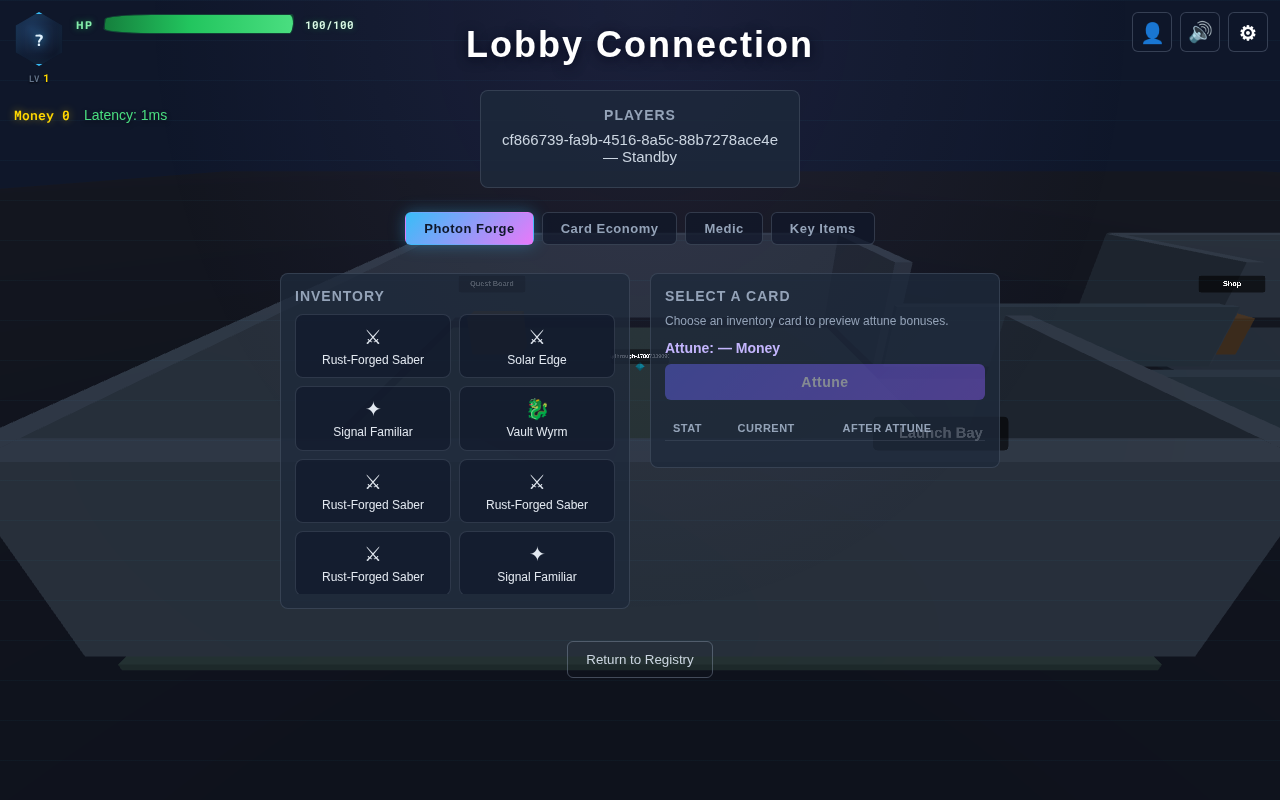
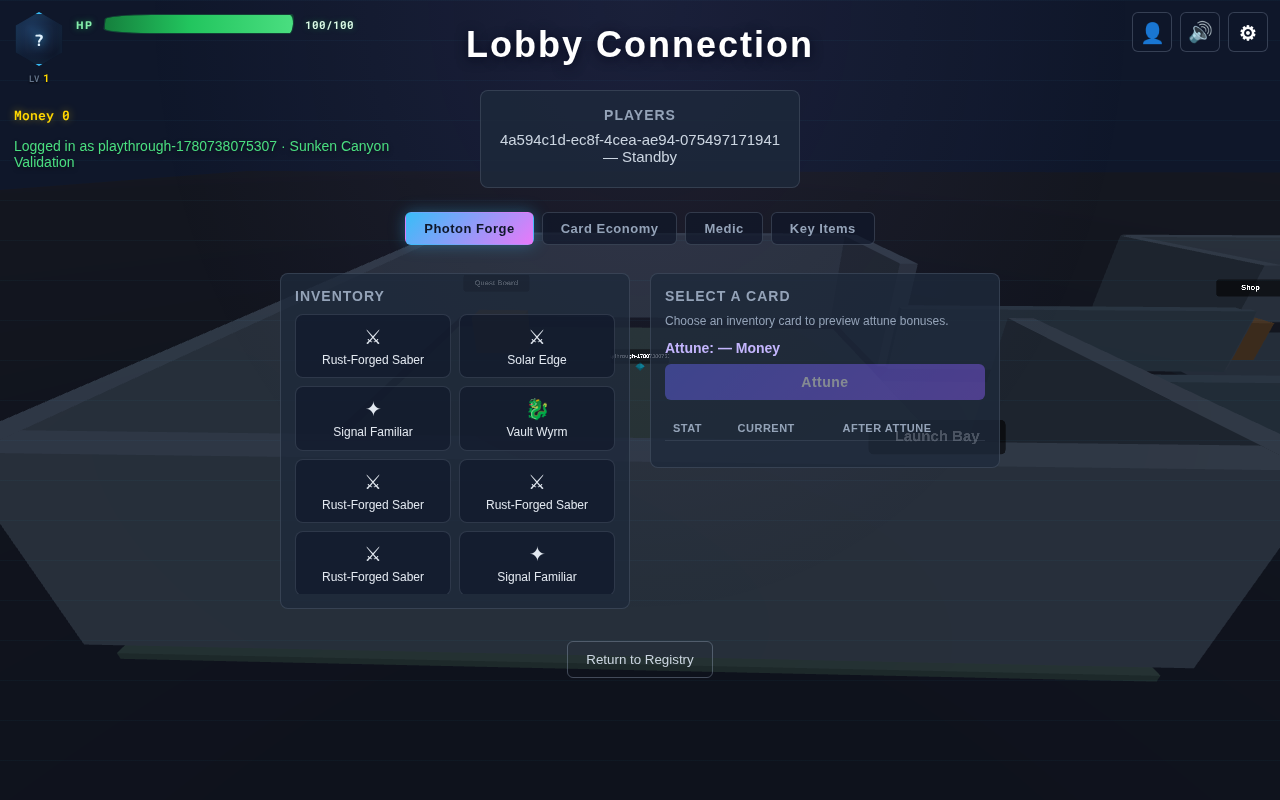
279-playthrough-validate-sunken-canyon/04-execute-sunken-canyon-validation: execute full sunken-canyon playthrough and land artifacts
Runs the end-to-end sunken-canyon validation (auth → hub/deploy → god-mode
boss encounter → victory), landing all 7 screenshots, run-summary.json with
passing assertions (bossSpawned, encounterActivated, bossDefeated, victoryFired),
probes.json with dormant/active encounter and floor-alignment probes, and
findings.md documenting the run.

autogame

diff --git a/game/server/debugScenarios.js b/game/server/debugScenarios.js
@@ -662,32 +662,26 @@ function applyDebugScenario(socket, name) {
         remainingCharges: 5,
         grind: 0,
       };
-      const addsByBand = new Map();
-      for (const add of adds) {
-        const band = bandAt(state.layout, add.x, add.z) || 'plateau';
-        if (!addsByBand.has(band)) addsByBand.set(band, []);
-        addsByBand.get(band).push(add);
-      }
+      // Cluster every live add on the start plateau (wounded, shields stripped) so the
+      // harness can clear the pack through lock-on + swings without crossing bands or
+      // the canyon_monolith boss trigger. Each add still gets band-correct floor Y via
+      // sampleFloorY at its cluster position.
+      const clusterAnchor = firstRoomPosition();
       const clusterRadius = 4;
-      for (const [band, bandAdds] of addsByBand) {
-        const anchor = clusterAnchorForBand(state.layout, band, player);
-        let angle = 0;
-        const step = bandAdds.length > 0 ? (Math.PI * 2) / bandAdds.length : 0;
-        for (const add of bandAdds) {
-          add.hp = 1;
-          add.shieldHp = 0;
-          add.maxShieldHp = 0;
-          add.x = anchor.x + Math.cos(angle) * clusterRadius;
-          add.z = anchor.z + Math.sin(angle) * clusterRadius;
-          add.y = resolveFloorY(sampleFloorY(state.layout, add.x, add.z));
-          add.wanderTarget = { x: add.x, z: add.z };
-          angle += step;
-        }
+      let angle = 0;
+      const step = adds.length > 0 ? (Math.PI * 2) / adds.length : 0;
+      for (const add of adds) {
+        add.hp = 1;
+        add.shieldHp = 0;
+        add.maxShieldHp = 0;
+        add.x = clusterAnchor.x + Math.cos(angle) * clusterRadius;
+        add.z = clusterAnchor.z + Math.sin(angle) * clusterRadius;
+        add.y = resolveFloorY(sampleFloorY(state.layout, add.x, add.z));
+        add.wanderTarget = { x: add.x, z: add.z };
+        angle += step;
       }
-      const playerBand = bandAt(state.layout, player.x, player.z) || 'plateau';
-      const playerAnchor = clusterAnchorForBand(state.layout, playerBand, player);
-      player.x = playerAnchor.x;
-      player.z = playerAnchor.z;
+      player.x = clusterAnchor.x;
+      player.z = clusterAnchor.z;
       player.y = resolveFloorY(sampleFloorY(state.layout, player.x, player.z));
       repositionNearEnemy(player, nearest);
       player.y = resolveFloorY(sampleFloorY(state.layout, player.x, player.z));
@@ -755,8 +749,13 @@ function applyDebugScenario(socket, name) {
       boss.maxHp = boss.maxHp || boss.hp;
       boss.shieldHp = 0;
       boss.maxShieldHp = 0;
-      activateEncounter(state.run);
-      lockEncounter(state.run);
+      // Harness activates the encounter before boss-low-hp; direct URL/debug use may still be dormant.
+      if (isEncounterDormant(state.run)) {
+        activateEncounter(state.run);
+      }
+      if (!state.run.encounter.locked) {
+        lockEncounter(state.run);
+      }
       broadcastLobbyUpdate(lobby);
       io.to(lobby.id).emit(SERVER_TO_CLIENT.STATE_UPDATE, stateSnapshot());
       return { ok: true, scenario: name };

diff --git a/game/validation/sunken-canyon/findings.md b/game/validation/sunken-canyon/findings.md
@@ -1,0 +1,49 @@
+# Sunken Canyon validation findings
+
+**Outcome:** PASS
+**Preset:** sunken-canyon
+
+## Assertions
+
+- **bossSpawned (miniboss (Canyon Warden))**: PASS
+- **encounterActivated**: PASS
+- **bossDefeated**: PASS
+- **victoryFired**: PASS
+
+## Console / page errors
+
+None observed.
+
+## Visual notes
+
+No visual glitches recorded by the driver.
+
+## Harness-blocking fixes (`game/server/debugScenarios.js`)
+
+Two debug-scenario bugs blocked the full playthrough driver until patched (minimal server edits; normal gameplay unchanged).
+
+1. **`canyon-descent-near-adds` — unreachable per-band adds** (`03-mid-combat.png`): The scenario previously split adds across elevation bands. The harness clears adds via lock-on + swings on the start plateau only; adds on lower bands were never in range, so `addsTimeoutMs` fired before `canyon-descent-boss-approach`. **Fix:** cluster every live add on `firstRoomPosition()` (wounded, shields stripped) with band-correct floor Y at each cluster position so the driver can clear the full pack without crossing bands or the `canyon_monolith` trigger.
+
+2. **`canyon-descent-boss-low-hp` — invalid `active → active` re-activation** (`05-boss-active.png` → `06-boss-defeated.png`): The harness activates the encounter before applying this scenario; unconditional `activateEncounter` threw on an already-active encounter, so `debugScenarioResult` never returned `ok: true` and the boss-low-HP shortcut failed. **Fix:** call `activateEncounter` only when `isEncounterDormant(state.run)`; call `lockEncounter` only when `!state.run.encounter.locked`.
+
+## Floor alignment
+
+- **Level entry**: playerY=10.5, floorY=10.5, delta=0.000, profile=sunken-canyon, band=plateau
+- **Mid combat**: playerY=10.5, floorY=10.5, delta=0.000, profile=sunken-canyon, band=plateau
+- **Boss dormant**: playerY=10.5, floorY=10.5, delta=0.000, profile=sunken-canyon, band=plateau
+- **Boss active**: playerY=0.5, floorY=0.5, delta=0.000, profile=sunken-canyon, band=canyon
+
+## Screenshots
+
+- `game/validation/sunken-canyon/01-lobby-browser.png`
+- `game/validation/sunken-canyon/01-hub.png`
+- `game/validation/sunken-canyon/02-level-entry.png`
+- `game/validation/sunken-canyon/03-mid-combat.png`
+- `game/validation/sunken-canyon/04-boss-dormant.png`
+- `game/validation/sunken-canyon/05-boss-active.png`
+- `game/validation/sunken-canyon/06-boss-defeated.png`
+- `game/validation/sunken-canyon/07-victory.png`
+
+## Follow-ups
+
+None for gameplay — green run after the two debug-scenario fixes above.